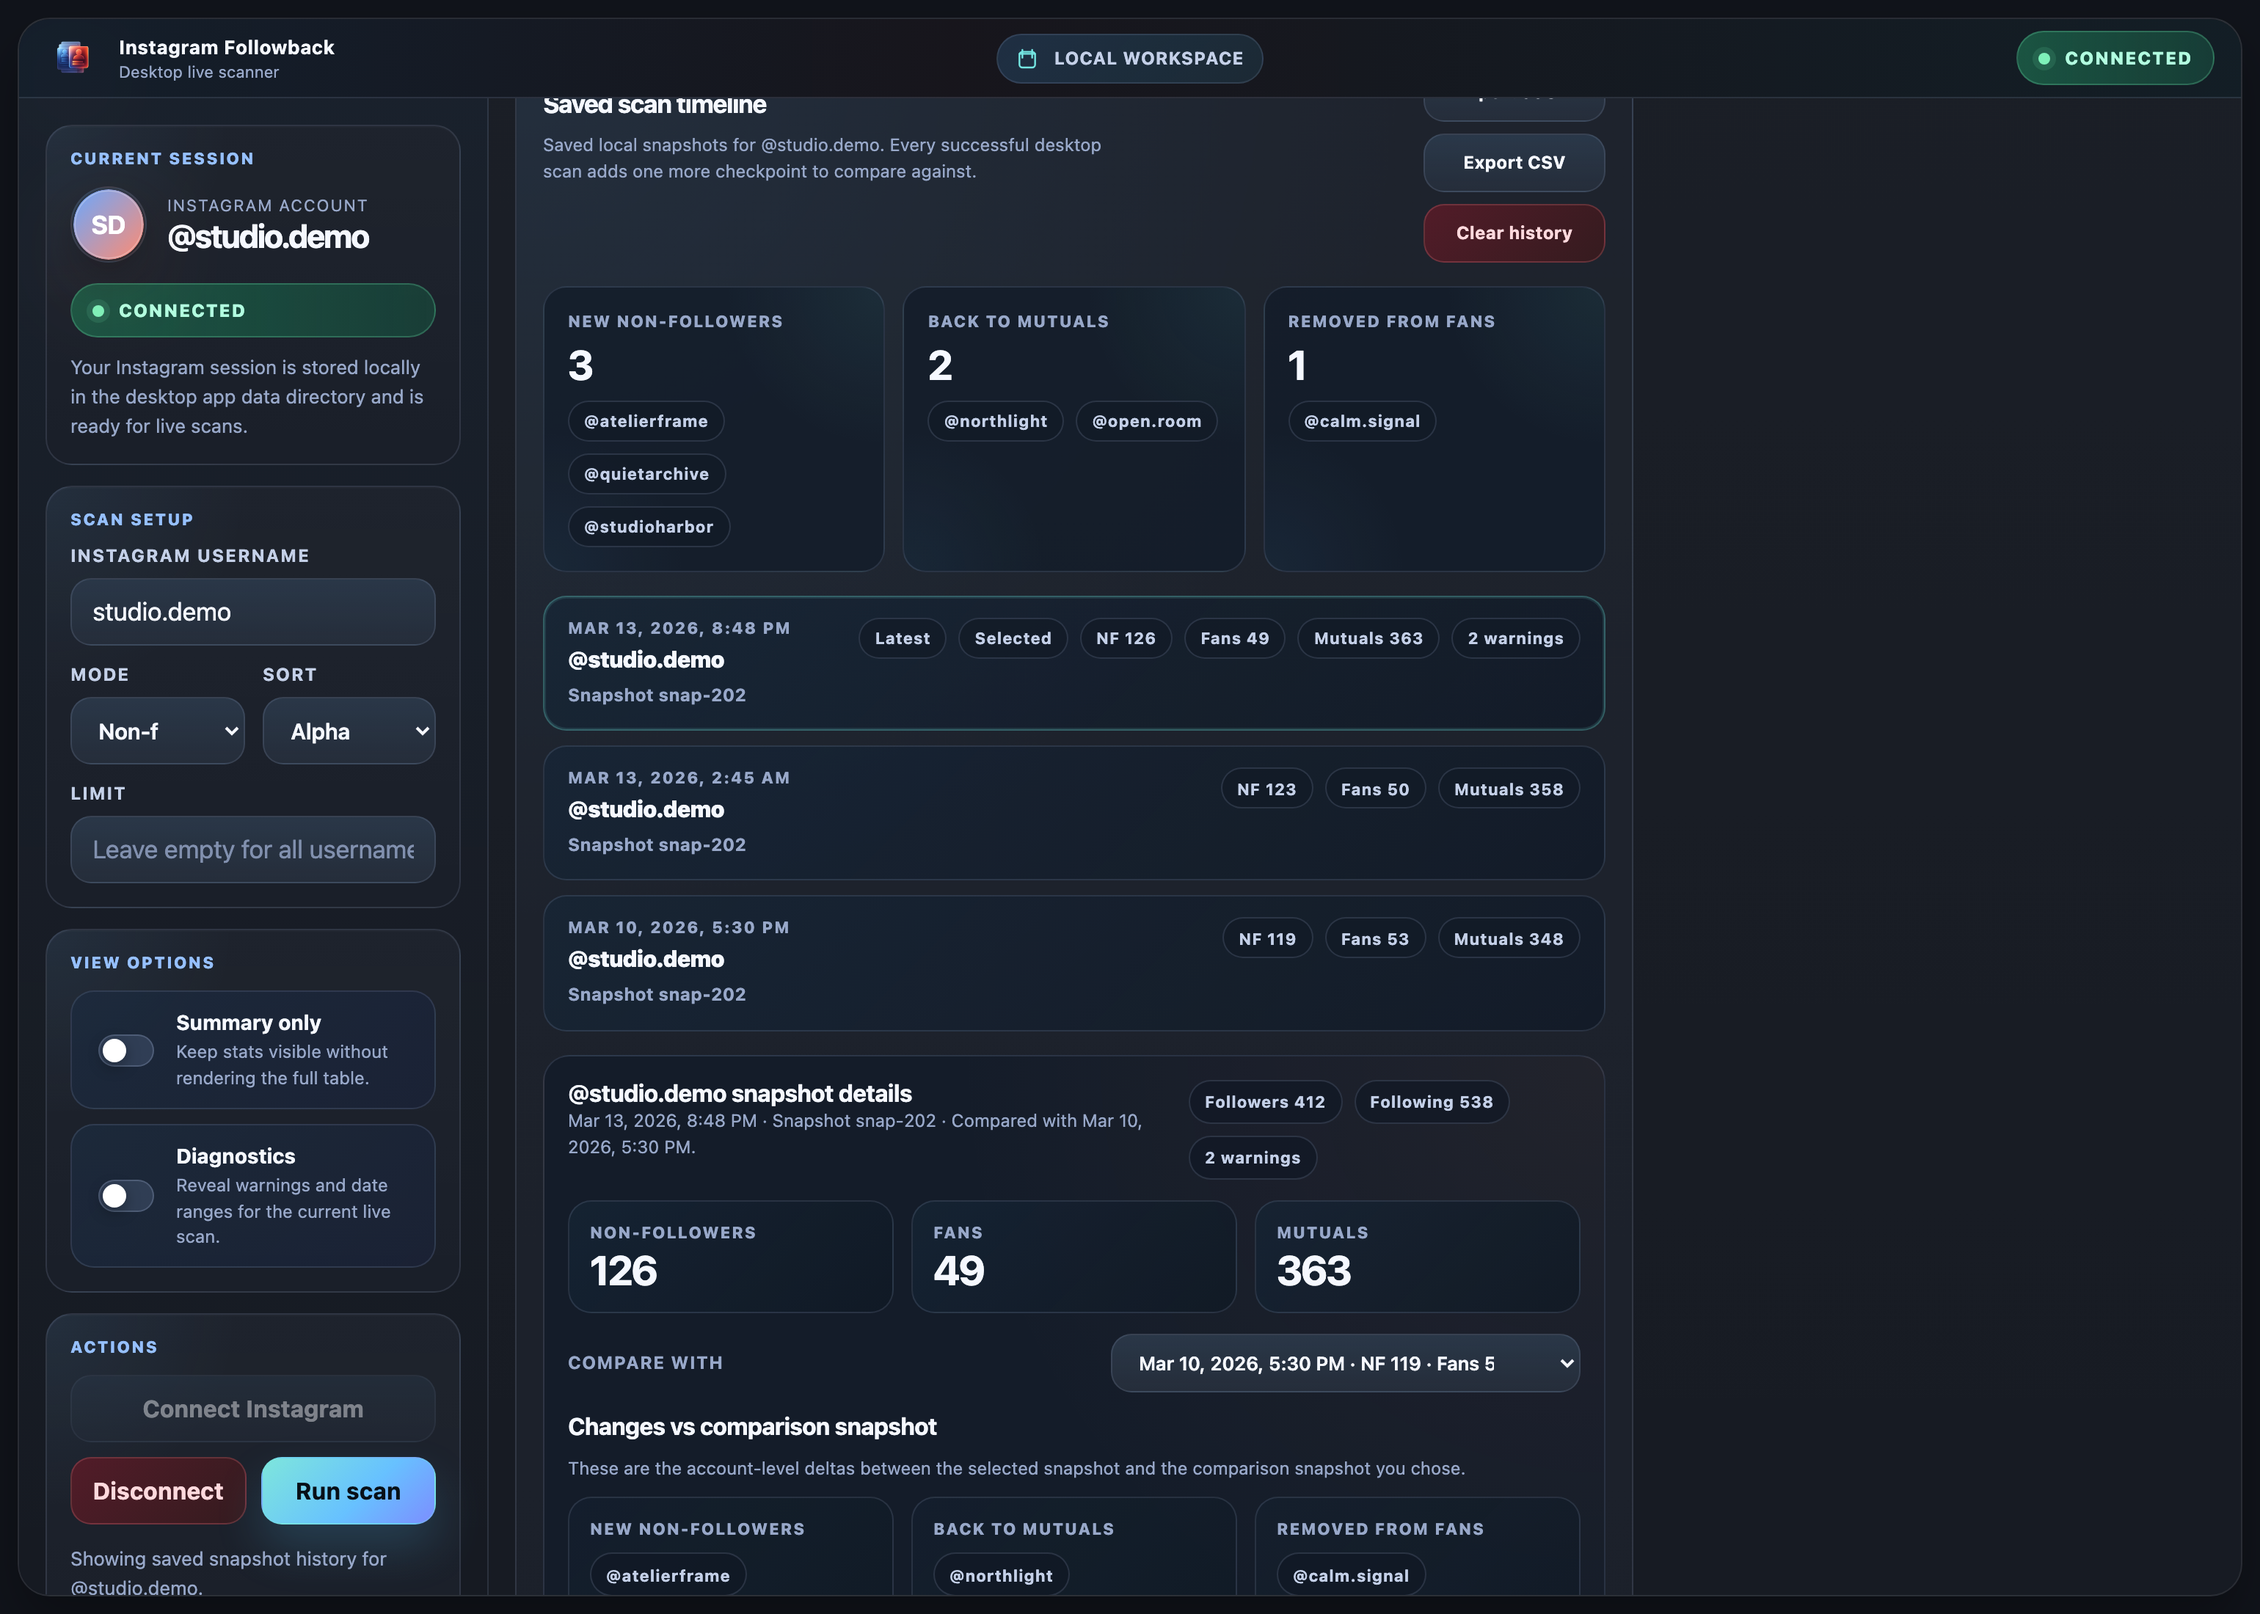
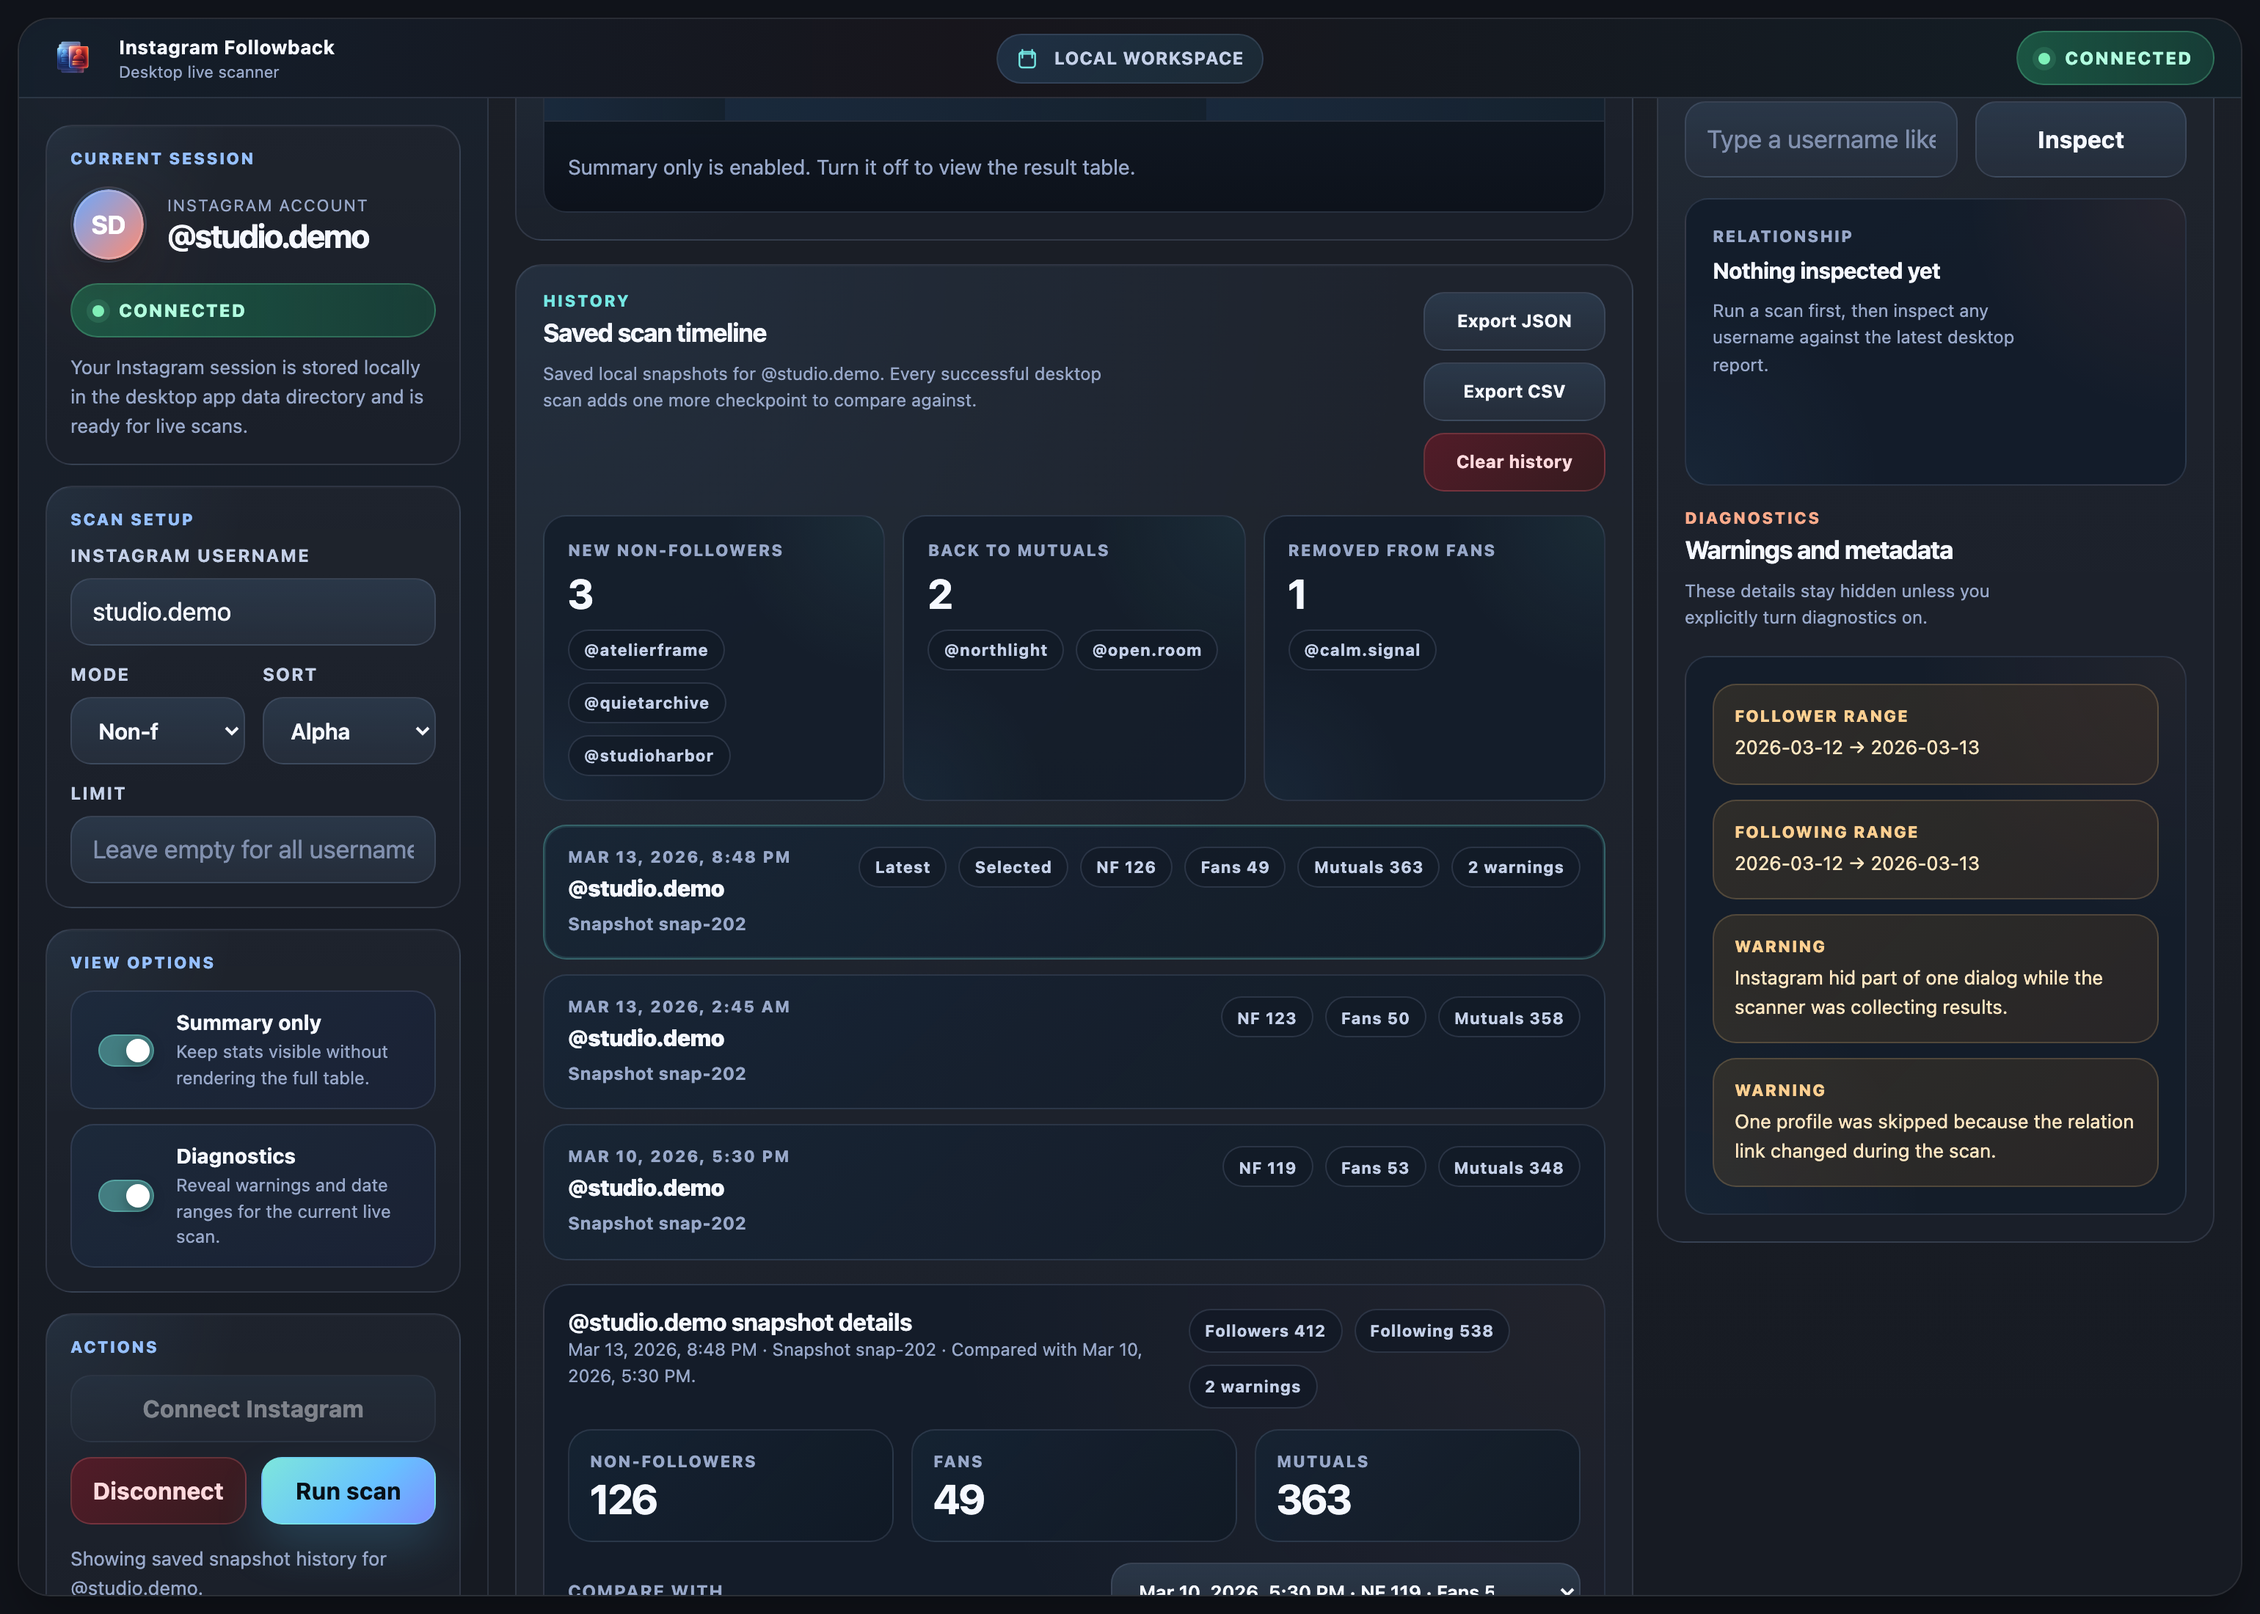
Fix history screenshot diagnostics context

diff --git a/scripts/capture_desktop_screenshots.py b/scripts/capture_desktop_screenshots.py
@@ -379,6 +379,10 @@ def populate_history_state(page) -> None:
         """
         () => {
           renderReport(window.__DOCS_MOCK__.report);
+          document.getElementById('summaryOnlyToggle').checked = true;
+          rebuildCurrentReportFromControls();
+          document.getElementById('diagnosticsToggle').checked = true;
+          renderWarnings(state.report);
           state.selectedHistorySnapshotId = window.__DOCS_MOCK__.history_detail.snapshot.snapshot_id;
           state.compareHistorySnapshotId = window.__DOCS_MOCK__.history_detail.comparison_snapshot.snapshot_id;
           state.historyDetailExpanded = true;
@@ -490,7 +494,7 @@ def capture_history_showcase(page) -> None:
           const workspace = document.getElementById('workspacePanel');
           const historyCard = document.querySelector('.history-card');
           if (workspace && historyCard) {
-            const top = historyCard.offsetTop - 24;
+            const top = historyCard.offsetTop - 180;
             workspace.scrollTop = Math.max(0, top);
           }
         }
